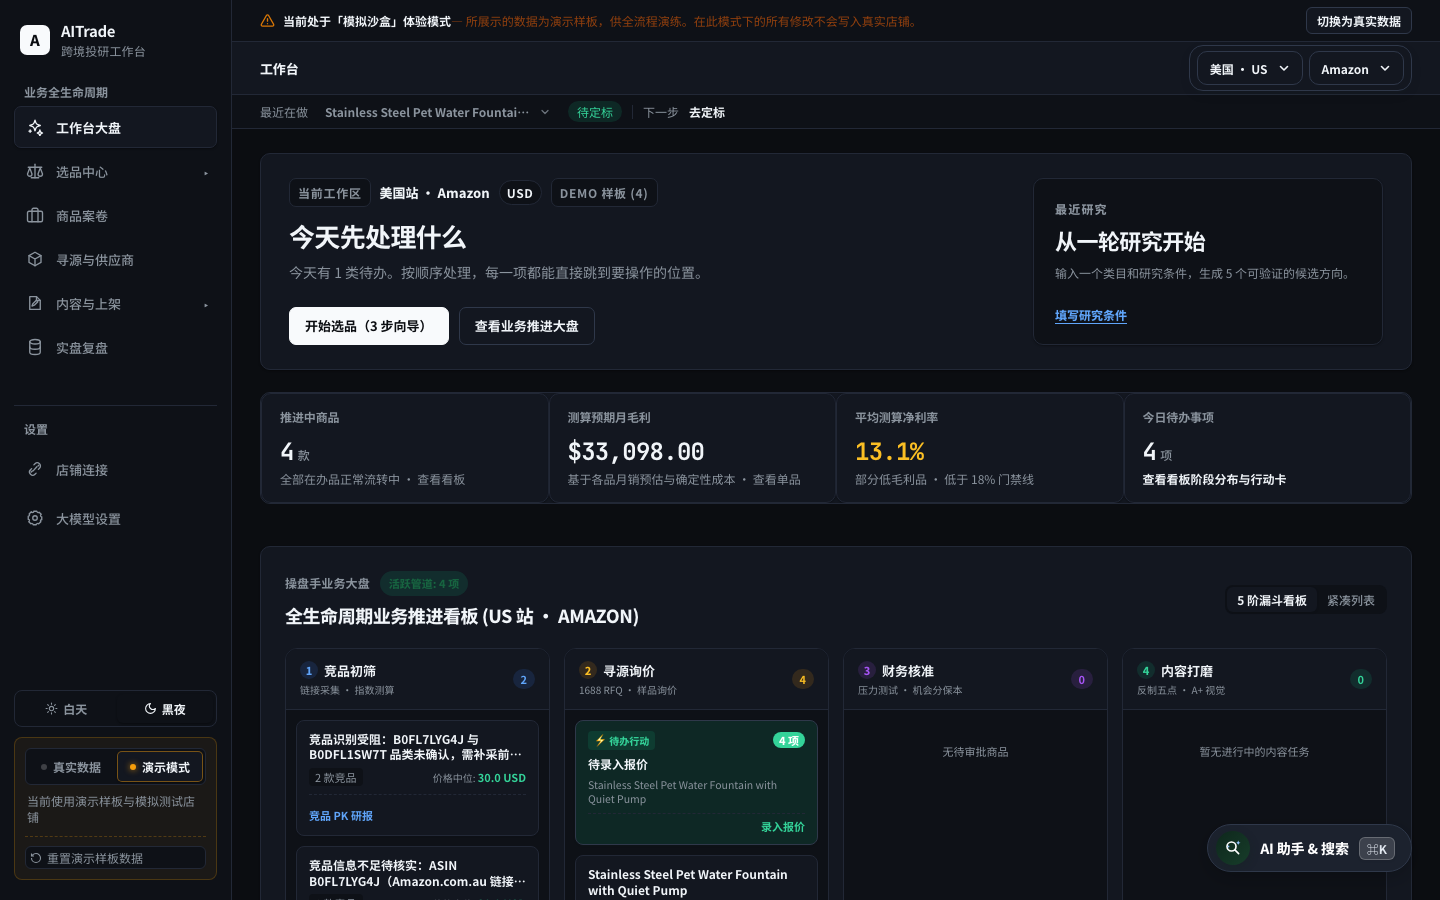
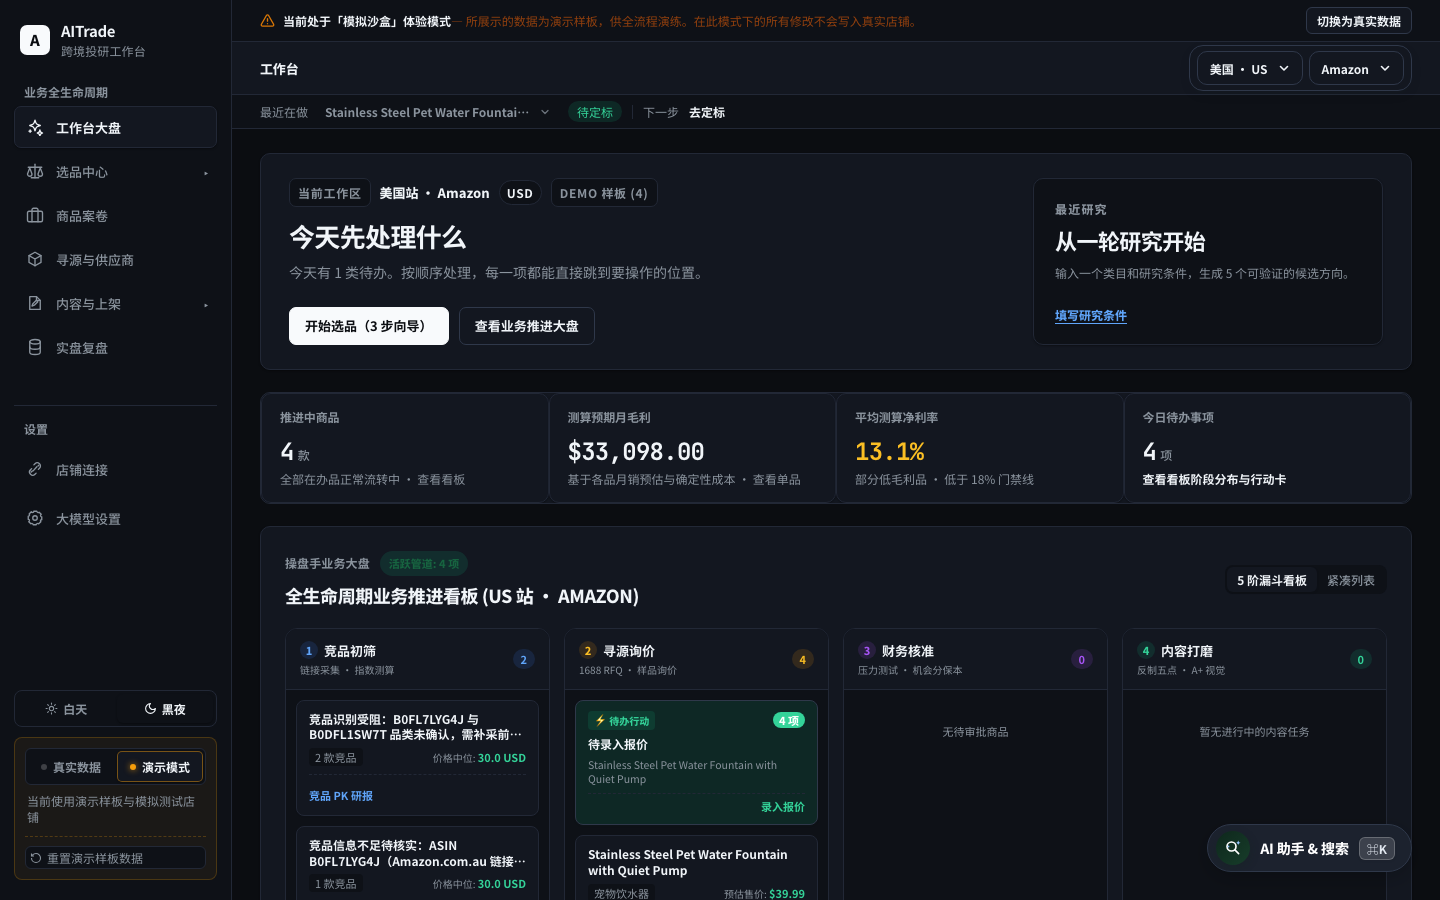
fix(ui): 统一首页各区块垂直间距并更新双模截图

diff --git a/src/components/dashboard-pipeline-kanban.tsx b/src/components/dashboard-pipeline-kanban.tsx
@@ -211,7 +211,7 @@ export function DashboardPipelineKanban({
   const totalActiveCases = stage2Items.length + stage3Items.length + stage4Items.length + stage5Items.length;
 
   return (
-    <section className="panel" style={{ padding: "24px", marginBottom: "24px" }}>
+    <section className="panel" style={{ padding: "24px" }}>
       {/* 头部标题与视图切换 */}
       <div
         style={{

diff --git a/src/app/globals.css b/src/app/globals.css
@@ -6318,7 +6318,6 @@ tbody tr:last-child td {
   border-radius: 10px;
   background: var(--paper);
   overflow: hidden;
-  margin-bottom: 20px;
 }
 
 .dashboard-kpi-card {
